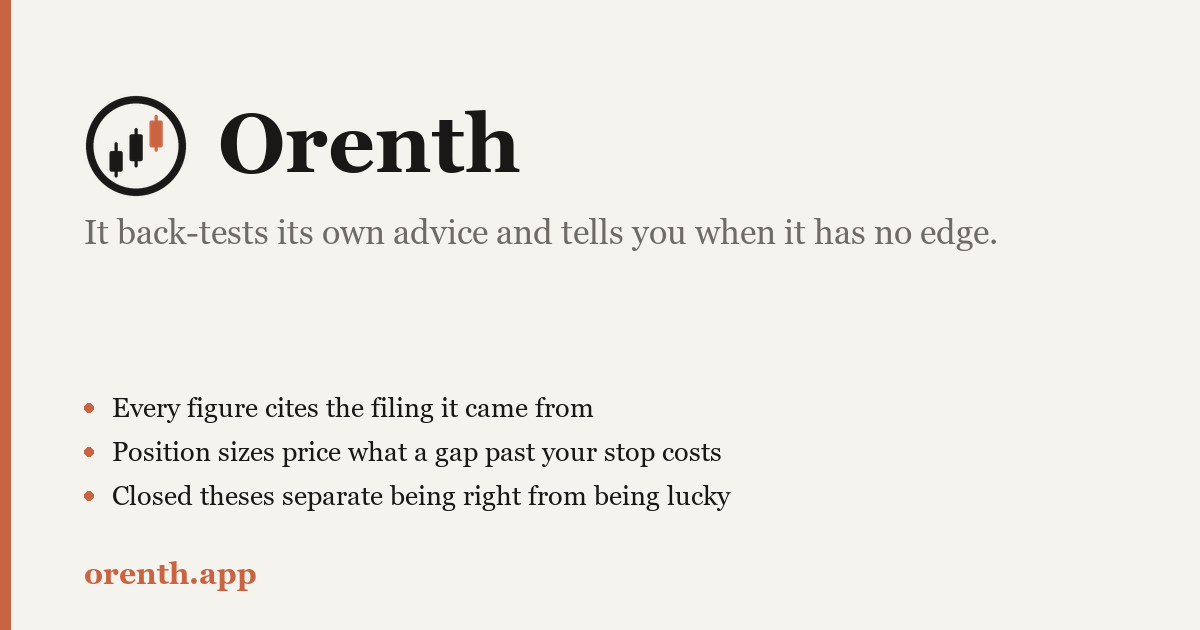
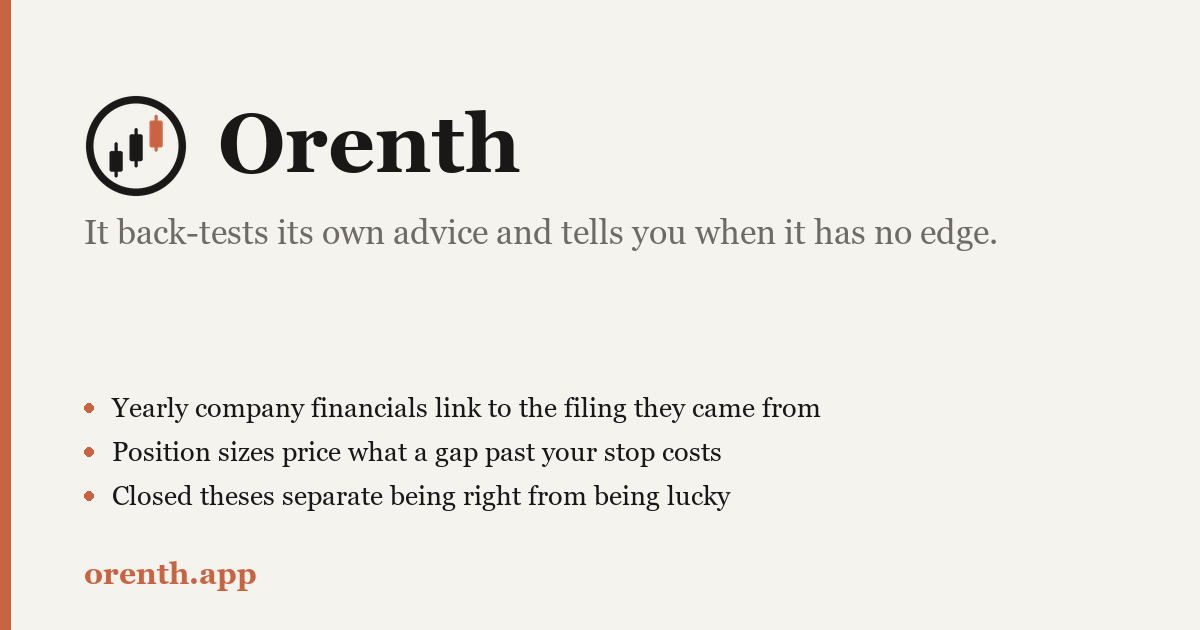
Say what is true in the setup guides, the launchers and the preview card
The guide now has what the paid plans need switched on in Stripe, how to bring
a backup home from Render, and a disk size that counts every copy kept. The
card shown with a pasted link said every figure cites its filing; only the
yearly company financials do. The README's layout had no billing, public pages
or app.

setup.bat said it was complete when pip had failed, and broke in a folder with
an apostrophe; it now stops, and installs the versions that were tested. The
image keeps saved settings on the disk without being told to. The client the
iPhone notifications use is listed as a requirement of its own, and a test
checks every package the app imports is.

Changed region(s): [[0.0925, 0.6333, 0.6783, 0.6635]]

diff --git a/tests/test_lock.py b/tests/test_lock.py
@@ -45,6 +45,30 @@ differ = sorted("%s %s/%s" % (n, wanted[n], locked[n])
                 for n in wanted if n in locked and wanted[n] != locked[n])
 check("at the same version", not differ, differ)
 
+# A package that is only there because another one needs it goes when that one
+# does, and what used it goes quiet without a test failing.
+import ast  # noqa: E402
+import glob  # noqa: E402
+
+LISTED_AS = {"PIL": "pillow", "dotenv": "python-dotenv"}
+OURS = {os.path.splitext(os.path.basename(p))[0] for p in glob.glob(
+    os.path.join(ROOT, "*.py"))} | {"bot"}
+used = {}
+for path in glob.glob(os.path.join(ROOT, "*.py")) + glob.glob(
+        os.path.join(ROOT, "bot", "*.py")):
+    with open(path, encoding="utf-8") as fh:
+        tree = ast.parse(fh.read())
+    for node in ast.walk(tree):
+        names = ([a.name for a in node.names] if isinstance(node, ast.Import) else
+                 [node.module] if isinstance(node, ast.ImportFrom) and not node.level
+                 and node.module else [])
+        for name in names:
+            top = name.split(".")[0]
+            if top not in sys.stdlib_module_names and top not in OURS:
+                used.setdefault(norm(LISTED_AS.get(top, top)), os.path.basename(path))
+unlisted = sorted("%s (%s)" % (n, f) for n, f in used.items() if n not in wanted)
+check("every package the app imports is in requirements.txt", not unlisted, unlisted)
+
 with open(os.path.join(ROOT, "requirements.lock"), encoding="utf-8") as fh:
     text = fh.read()
 entries = re.split(r"\n(?=[A-Za-z0-9])", text.split("\n", 1)[1])

diff --git a/tools/make_preview.py b/tools/make_preview.py
@@ -24,7 +24,7 @@ NAME = "Orenth"
 DOMAIN = "orenth.app"
 TAGLINE = "It back-tests its own advice and tells you when it has no edge."
 POINTS = [
-    "Every figure cites the filing it came from",
+    "Yearly company financials link to the filing they came from",
     "Position sizes price what a gap past your stop costs",
     "Closed theses separate being right from being lucky",
 ]

diff --git a/README.md b/README.md
@@ -1,6 +1,7 @@
 # Orenth
 
-**Live at [orenth.app](https://orenth.app).** Free, no ads, no tracking scripts.
+**Live at [orenth.app](https://orenth.app).** Free to use, with a paid Pro plan
+for more of the same. No ads.
 
 Give it a screenshot of a chart. It identifies the instrument, pulls live market
 data, runs **34 trading strategies**, measures which of them actually work on
@@ -39,7 +40,7 @@ required.
 | **Research** | The business behind the ticker: filed financials, valuation, a two-sided thesis, options pricing, recent filings, every claim cited |
 | **Screener** | Ready-made and custom screens over a chosen universe, showing the numbers that got each name through |
 | **Portfolio** | What you are exposed to: concentration, sector weights, correlation between holdings, a market-shock table |
-| **Trades** | Open positions marked to market, close or delete them, log trades by hand, realised performance |
+| **Journal** | Open positions marked to market, close or delete them, log trades by hand, realised performance |
 | **Monitor** | Alerts, a watchlist, saved theses, and four routines that do the checking for you |
 | **Strategies** | Leaderboard of all 34 strategies, filterable by instrument and market conditions |
 | **Settings** | Account size, risk, broker costs and thresholds, editable in the browser with validation |
@@ -126,7 +127,7 @@ otherwise. Each links to where the work happens.
 | 12 | Bull and bear thesis | `bot/thesis.py` | Both cases argued from the gathered evidence, each point carrying what would prove it wrong |
 | 13 | Source citations | throughout | Every figure carries where it came from; filings link to sec.gov |
 | 14 | Investment thesis memory | `bot/thesis.py`, `bot/database.py` | A thesis is saved with the price at the time and closed out later as right, wrong, right-by-luck, or undecided. The outcome offered when you close one is the one the price supports, not the one you remember |
-| 15 | Alerts | `bot/alerts.py`, `bot/scheduler.py` | Thirteen conditions covering price, percentage moves, RSI, 52-week highs and lows, volume, moving averages and a change of call, plus the specific ones a given trade plan implies, set in one click. Checked on a timer by the server, not only when you open the page |
+| 15 | Alerts | `bot/alerts.py`, `bot/scheduler.py` | Conditions covering price, percentage moves, RSI, 52-week highs and lows, volume, moving averages, price action and a change of call, plus the specific ones a given trade plan implies, set in one click. Checked on a timer by the server, not only when you open the page |
 | 15b | Scheduled events | `bot/catalysts.py` | Whether earnings or an ex-dividend date falls **inside this plan's own holding window**, which is the only version of that question that changes a decision |
 | 15c | Position overlap | `bot/portfolio.py` | Before you add a position, whether it is really a new one or more of what you already hold |
 | 15d | Export | `bot/export.py` | The journal, theses, measured strategy record and analysis history as CSV or JSON |
@@ -504,8 +505,9 @@ paper.bat <command> [options]
 | `strategy_weights` | Per-strategy base weights, before regime and learned adjustment |
 | `alert_check_minutes` | Minutes between background alert checks, or 0 to switch them off |
 
-Two environment variables move where things are stored, which is how you keep a
-paper journal and a live one side by side without editing anything:
+These environment variables are the ones most often set. The first two move
+where things are stored, which is how you keep a paper journal and a live one
+side by side without editing anything; DEPLOY.md lists the rest:
 
 | Variable | Effect |
 |---|---|
@@ -758,7 +760,7 @@ suite depends on the order it runs in.
 
 | Source | Used for | Notes |
 |---|---|---|
-| Yahoo Finance charts | OHLCV, symbol resolution, news | Free, no key. Equities, ETFs, crypto. |
+| Yahoo Finance charts | OHLCV, symbol resolution, news | Free, no key. Equities, ETFs, futures, crypto. |
 | Yahoo Finance quoteSummary | Ratios, profile, balance sheet, cash flow | Free, but needs a cookie and crumb handshake, which `bot/yahoo.py` performs and refreshes |
 | Yahoo Finance options | Chains, open interest, implied volatility | Same handshake. Greeks are computed here, not taken on trust |
 | SEC EDGAR | Filed financials (XBRL company facts), filing history, full text search | Free, no key, requires a real User-Agent and stays inside the 10 requests/second limit |
@@ -810,7 +812,7 @@ Three details do most of the work:
 
 - **Every figure is monospaced with tabular numerals**, so columns of prices and
   R multiples line up and stay scannable.
-- **Semantic colours are warm.** Gains are olive `#68773b`, losses rust
+- **Semantic colours are warm.** Gains are olive `#616f37`, losses rust
   `#a53e2a`. A neon green on cream would look violently wrong.
 - **Contrast was solved, not copied.** The published warm tokens are tuned for
   large display type and fail AA as small text on cream: muted grey lands at
@@ -818,7 +820,7 @@ Three details do most of the work:
   until it cleared 4.5:1, keeping the hue and gaining legibility.
 
 There is a warm dark theme too, which follows your system setting. The
-decisions are recorded in `design-system/stock-bot/MASTER.md`.
+colours and the reasons for them are at the top of `static/style.css`.
 
 ---
 
@@ -847,7 +849,7 @@ Stock Bot.bat       double-click this: starts the web server
 web.py              the Flask web app
 templates/          web pages, including the settings screen
 static/style.css    warm editorial design system
-design-system/      the recorded design decisions
+design-system/      an early design study, kept for its history only
 menu.py             terminal menu
 analyze.py          analysis CLI
 paper.py            paper trading journal CLI
@@ -860,6 +862,8 @@ backup.py           consistent snapshots via SQLite's backup API, then verified
 preflight.py        checks a live deployment before anyone else sees it
 Dockerfile          the deployed image
 DEPLOY.md           putting it online, step by step
+mobile/             the iPhone app: the site in a native shell
+tools/              redraw the logo and the preview card, and operator's scripts
 tests/              every suite, runnable with tests/run_all.py
 bot/
   engine.py         the analysis pipeline, shared by web and CLI
@@ -878,6 +882,20 @@ bot/
 
   accounts.py       who owns what, sessions, and the shared/personal split
   auth.py           Google sign-in: authorization code flow with PKCE
+  codes.py          sign-in codes by email and text, and their limits
+  apple.py          Sign in with Apple, on the site and in the app
+  billing.py        Free and Pro, through Stripe, and the free allowance
+  appstore.py       checking what Apple says about a purchase is Apple's
+  apple_store.py    Pro bought in the iPhone app
+  invites.py        a friend's link, and the Pro time it gives
+  demo.py           the example account a signed-out visitor is shown
+  public.py         the pages anyone can read, and their pictures to share
+  digest.py         the weekly email
+  push.py           notifications to phones and browsers
+  webapp.py         the installable app and the offline worker's files
+  events.py         counts of what happened, for the operator
+  safejson.py       JSON read without trusting how deep it goes
+  terminal.py       console output setup
   quality.py        Piotroski, Altman, Beneish and accruals, from filed figures
   charts.py         price and filed-financial charts as inline SVG
   monitoring.py     optional error reporting, with personal data stripped
@@ -899,7 +917,7 @@ bot/
   portfolio.py      exposure, concentration, sector weights, shock tests
   screener.py       two-stage screening, shallow then deep
   thesis.py         the bull and bear cases, with evidence and falsifiers
-  alerts.py         thirteen alert conditions and the checker
+  alerts.py         the alert conditions and the checker
   reasoning.py      LLM reasoning over gathered facts only
   workflows.py      the four automated routines
 

diff --git a/DEPLOY.md b/DEPLOY.md
@@ -466,6 +466,39 @@ and refuses anything else.
 
 ---
 
+## Paid plans (Stripe)
+
+Free and Pro are off, and everyone has everything, until the first three
+settings are in. Section 7 above needs these too.
+
+1. In Stripe, make one product with a monthly price, and a yearly one if you
+   want it. Copy each price's id (it starts with `price_`).
+2. Developers, then **Webhooks**: add the endpoint
+   `https://<your-address>/billing/webhook` with the events
+   `checkout.session.completed`, `customer.subscription.created`,
+   `customer.subscription.updated` and `customer.subscription.deleted`. Copy
+   its signing secret.
+3. In the host's settings, add `STRIPE_SECRET_KEY`, `STRIPE_PRICE_ID` and
+   `STRIPE_WEBHOOK_SECRET`, and `STRIPE_PRICE_ID_YEARLY` if there is one.
+   Save, and the server restarts.
+
+Then three things in Stripe's own settings, which the app cannot check:
+
+- **Switch on the customer portal** (Settings, Billing, Customer portal), let
+  customers cancel there, and switch plans if there are two prices. "Manage
+  subscription" on the account page opens it, and short of deleting the account
+  it is the only way a person can cancel. Until it is on, that button says
+  payments refused the request.
+- **After all retries for a payment fail, cancel the subscription** (Settings,
+  Billing, under failed payments). The app keeps Pro while Stripe is still
+  retrying a card. If Stripe is told to leave the subscription past due
+  instead, someone who never pays keeps Pro.
+- **A refund does not end Pro.** When you refund someone who should not keep
+  it, cancel their subscription in Stripe too, at once rather than at the end
+  of the period.
+
+---
+
 ## The whole environment, in one place
 
 | Variable | Needed | What it does |
@@ -536,9 +569,12 @@ instruments they look at, whether they pick intraday or daily bars. That last
 one answers the positioning question better than any opinion can. Without this
 set, nobody can see that page on a deployment, including you.
 
+`/usage` also says when the last backup was taken, and in red when one is
+overdue.
+
 Backups run automatically every 12 hours once deployed, are verified before
 being kept, and prune to the newest eight. Each is a copy of the database and
-four CSV exports, and pruning deletes them together. A deploy restarts the
+five CSV exports, and pruning deletes them together. A deploy restarts the
 server, so when the newest backup is older than the interval, the next one runs
 a few minutes after start rather than twelve hours later. They live on the same
 disk as the database: with the settings under "Copies of the backups somewhere
@@ -687,7 +723,8 @@ Then the few things no script can check:
       your behalf
 - [ ] Confirm the alert loop is running: Settings shows the state and when it
       last looked
-- [ ] Take a backup and verify it: `python backup.py --csv`, then
+- [ ] Take a backup and verify it, in the host's shell:
+      `python backup.py --out /data/backups --csv`, then
       `python backup.py --verify <the file>`. A backup you have never verified
       is a hope, not a backup
 
@@ -718,11 +755,12 @@ to a storage bucket and checked there. Without it, it is a step for you, the
 operator:
 
 - Every week or so, download the newest `stockbot-<date>.db` from
-  `/data/backups` (over the host's SSH access, as in the commands below) and
+  `/data/backups` (with the commands for your host below) and
   keep it off the platform: your own machine plus one cloud drive is enough.
 - Run `python backup.py --verify <the file>` on the copy you downloaded.
-- Each copy is the size of the database, and eight are kept. At 1 GB that is
-  comfortable while the database is under about 100 MB; after that, set
+- Each copy is the size of the database. Eight are kept, and up to three more
+  taken before releases, all on the same disk. At 1 GB that is comfortable
+  while the database is under about 60 MB; after that, set
   `STOCKBOT_BACKUP_KEEP` lower or make the disk larger. A backup that would
   leave less than 50 MB free is not taken, and the log says so.
 - The CSVs are a convenience, not a full copy: the analysis history holds the
@@ -754,13 +792,26 @@ Restore with `--restore`, never by copying the file over `stockbot.db`: the
 `-wal` file beside it would lay the latest writes back over the backup.
 "Copies of the backups somewhere else" above says more.
 
-On the server:
+To bring one home from Render, take it in the service's **Shell** tab, then
+fetch it from your own computer over SSH (the service's **Connect** button,
+under SSH, shows its address, and Render's page on SSH how to add your key):
 
 ```
-fly ssh console -C "cd /app && python backup.py --out /data/backups --csv"
-fly ssh console -C "cat /data/backups/<the file it named>" > local-copy.db
+python backup.py --out /data/backups --csv
+scp -s <the service's SSH address>:/data/backups/<the file it named> local-copy.db
 python backup.py --verify local-copy.db
 ```
+
+From Fly:
+
+```
+fly ssh console -C "python /app/backup.py --out /data/backups --csv"
+fly ssh sftp get /data/backups/<the file it named> local-copy.db
+python backup.py --verify local-copy.db
+```
+
+With the off-site copies set up, the newest is in the bucket as well, and no
+SSH is needed.
 
 The CSVs are worth taking too. A `.db` file is readable only by this program;
 the exports are readable by anything, which is what matters if the worst case

diff --git a/LAUNCH.md b/LAUNCH.md
@@ -30,7 +30,7 @@ same complaint.
 
 ## Draft
 
-**Title, for Hacker News** (77 characters, and their limit is 80):
+**Title, for Hacker News** (75 characters, and their limit is 80):
 
 ```
 Show HN: Orenth - stock research that back-tests itself and reports no edge
@@ -52,7 +52,7 @@ for a trading tool to publish and it is what the measurements say.
 Re-run that count before you post. It moves with the market, and a figure you
 cannot reproduce on the day is the one thing that will get picked apart.
 
-Three things it does that I had not found elsewhere:
+Four things it does that I had not found elsewhere:
 
 **It separates being right from being lucky.** You can save a thesis, and later
 close it out as right, wrong, right-by-luck, or undecided. The app proposes the
